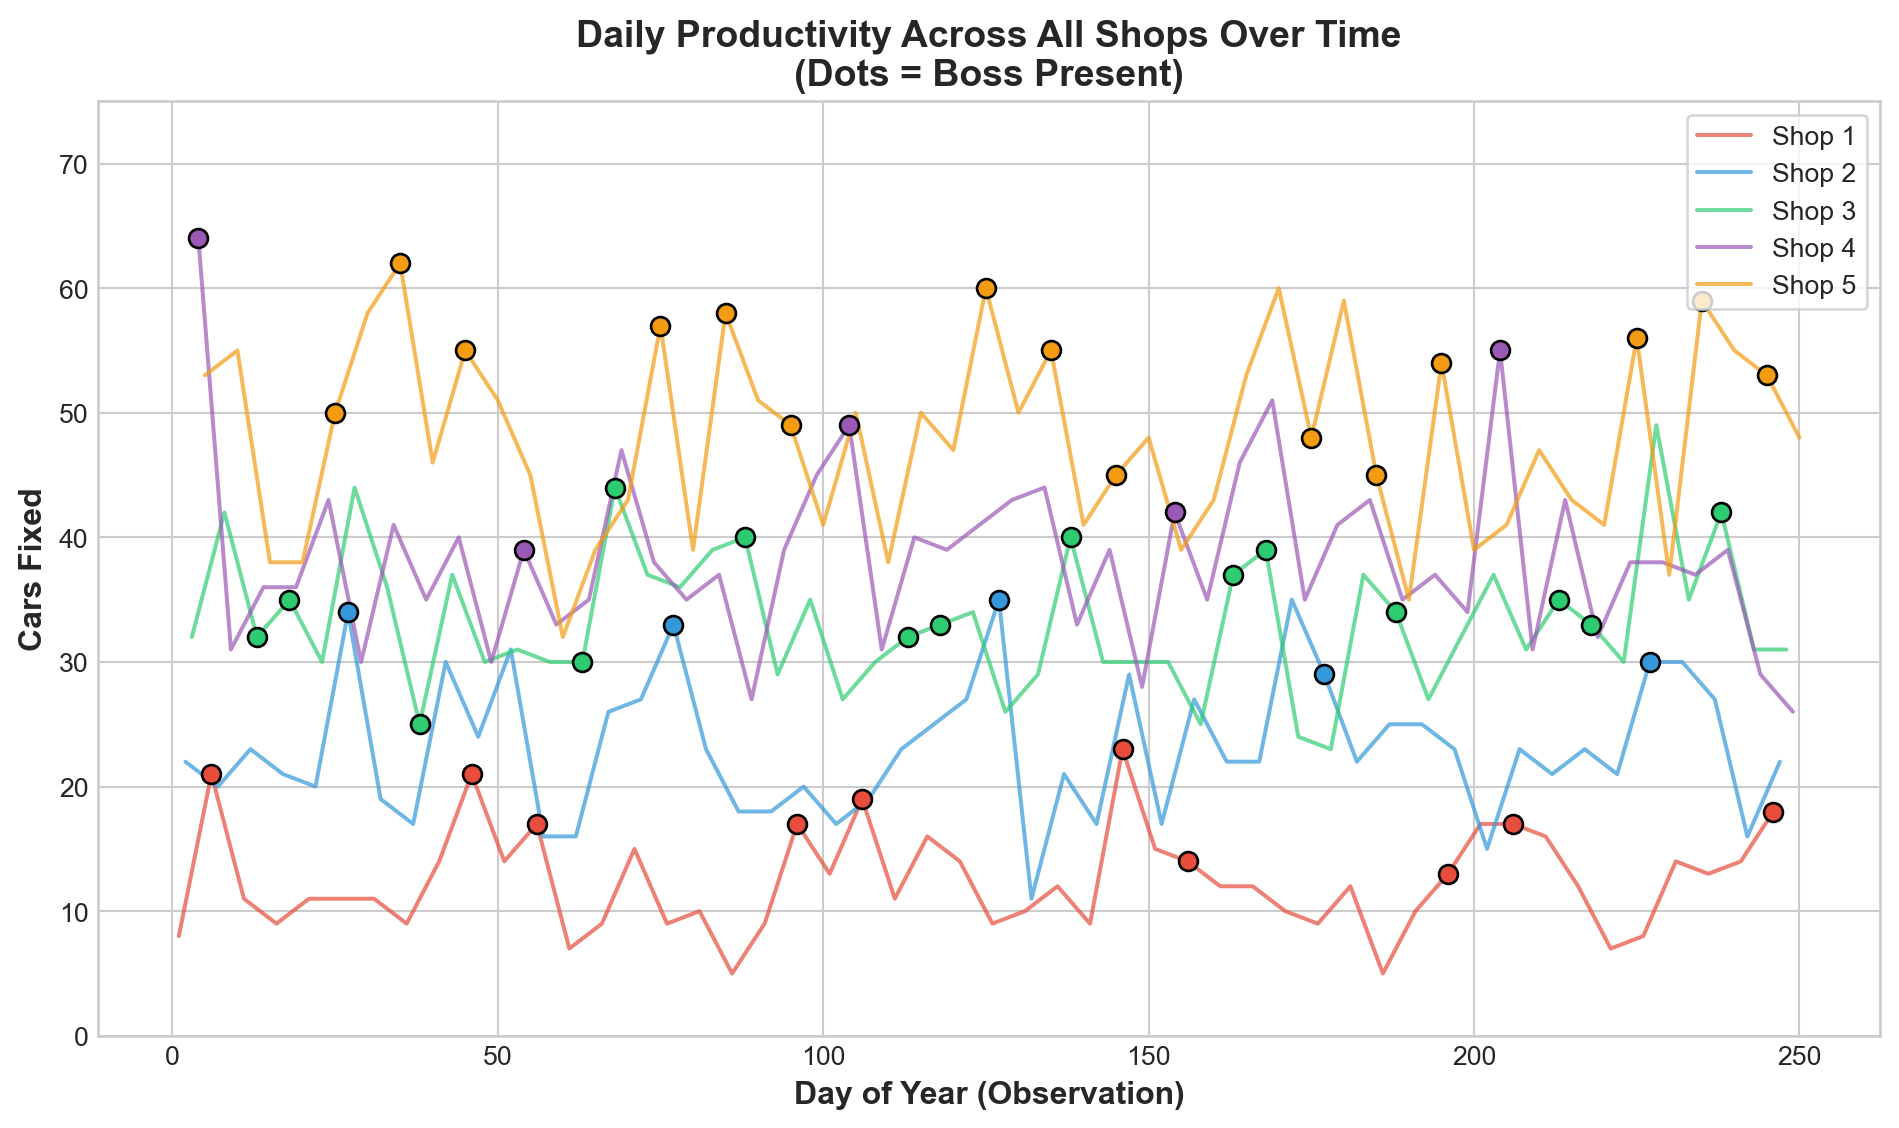
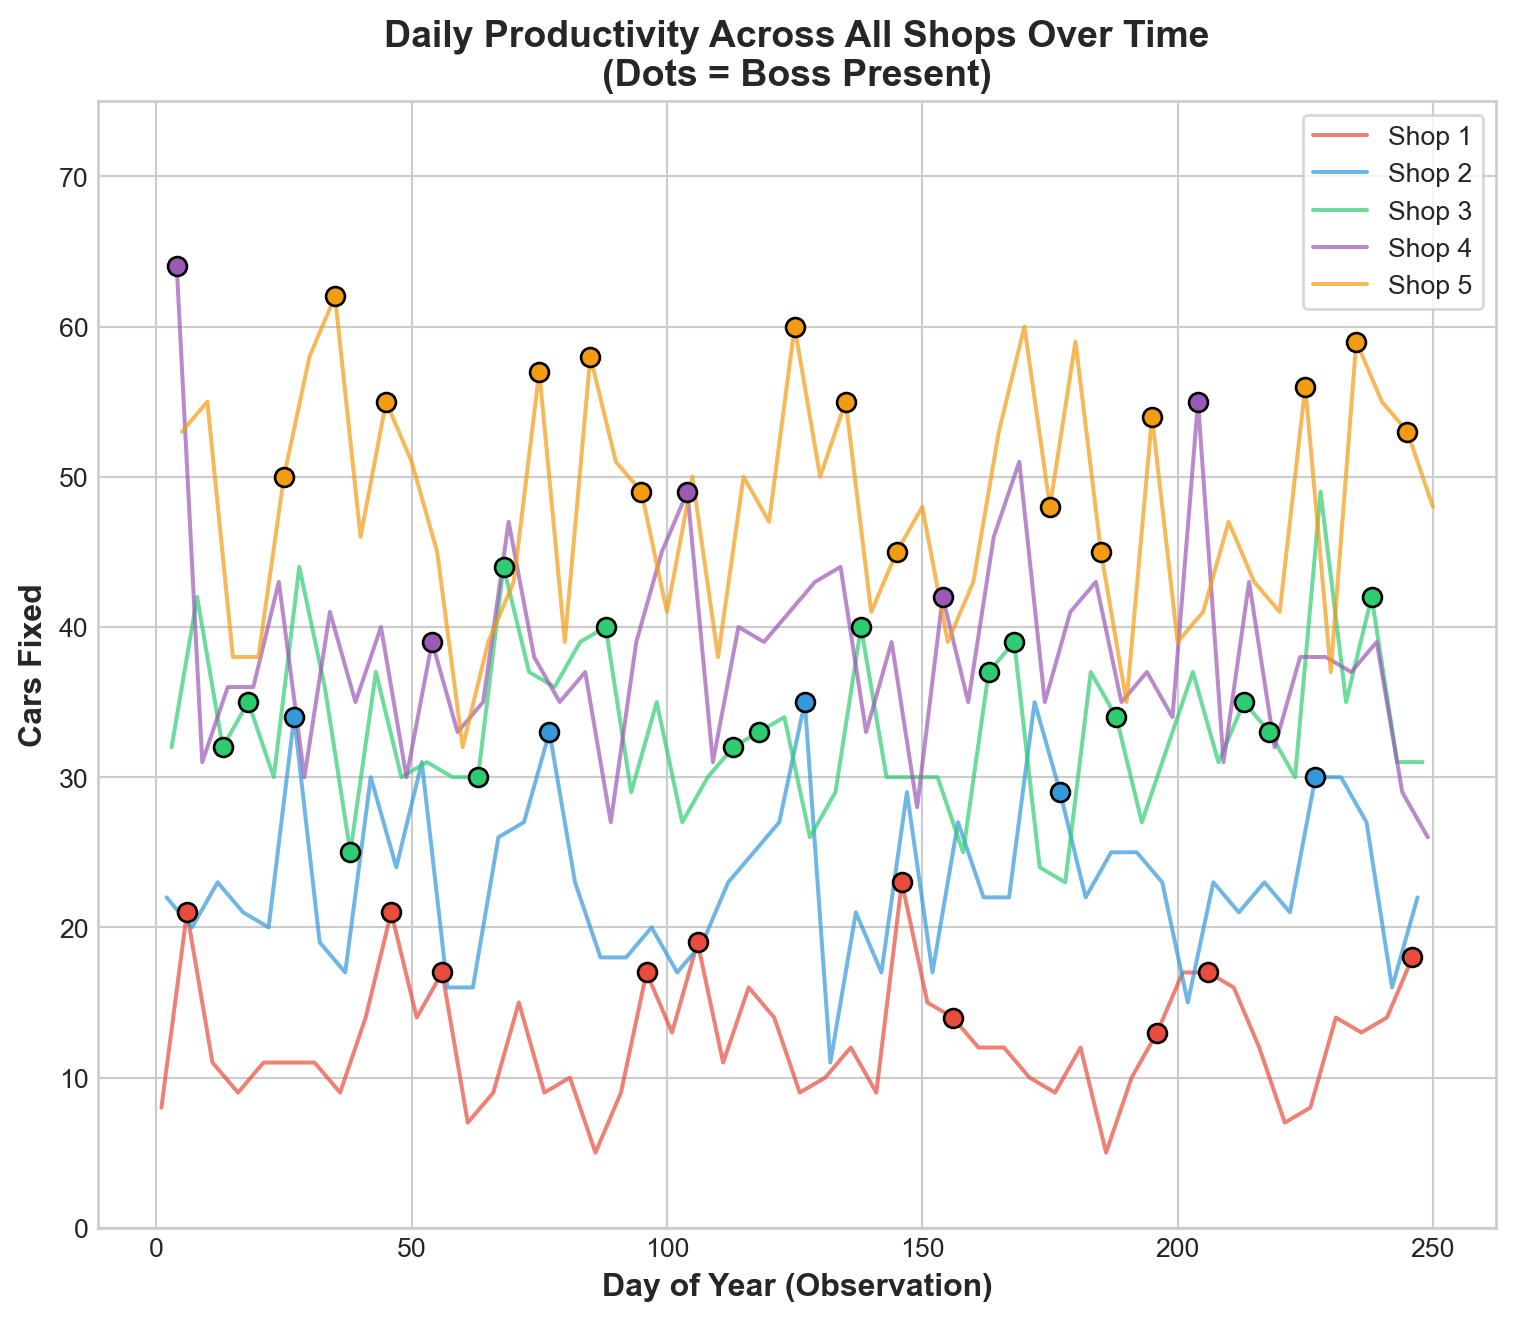
Render index.qmd

Changed region(s): [[0.0, 0.0, 0.9927, 0.9929], [0.5894, 0.2172, 0.6205, 0.2793]]

diff --git a/index.html b/index.html
@@ -103,7 +103,7 @@ ul.task-list li input[type="checkbox"] {
 <section id="what-the-data-shows" class="level2">
 <h2 class="anchored" data-anchor-id="what-the-data-shows">What the Data Shows</h2>
 <p>We analyzed 250 days of productivity data across your 5 shops. Here’s every single day plotted—you can see the pattern clearly:</p>
-<div id="92aea8ea" class="cell" data-fig-height="6" data-fig-width="8" data-execution_count="2">
+<div id="5d9c9316" class="cell" data-fig-height="6" data-fig-width="8" data-execution_count="2">
 <div class="cell-output cell-output-display">
 <div class="quarto-figure quarto-figure-center">
 <figure class="figure">
@@ -119,7 +119,7 @@ ul.task-list li input[type="checkbox"] {
 <section id="d-view-shop-performance-landscape" class="level2">
 <h2 class="anchored" data-anchor-id="d-view-shop-performance-landscape">3D View: Shop Performance Landscape</h2>
 <p>Here’s an interactive 3D perspective showing all three dimensions at once—Shop ID, your presence status, and cars fixed:</p>
-<div id="a1e65e38" class="cell" data-fig-height="8" data-fig-width="10" data-execution_count="3">
+<div id="fac2b040" class="cell" data-fig-height="8" data-fig-width="10" data-execution_count="3">
 <div class="cell-output cell-output-display">
 <div class="quarto-figure quarto-figure-center">
 <figure class="figure">
@@ -135,7 +135,7 @@ ul.task-list li input[type="checkbox"] {
 <section id="the-boss-boost-effect" class="level2">
 <h2 class="anchored" data-anchor-id="the-boss-boost-effect">The “Boss Boost” Effect</h2>
 <p>Here’s the real question: <strong>How many extra cars get fixed when you’re at each shop?</strong></p>
-<div id="ccbe6098" class="cell" data-fig-height="5" data-fig-width="9" data-execution_count="4">
+<div id="d694004a" class="cell" data-fig-height="5" data-fig-width="9" data-execution_count="4">
 <div class="cell-output cell-output-display">
 <div class="quarto-figure quarto-figure-center">
 <figure class="figure">
@@ -192,7 +192,7 @@ ul.task-list li input[type="checkbox"] {
 <section id="how-confident-can-you-be" class="level2">
 <h2 class="anchored" data-anchor-id="how-confident-can-you-be">How Confident Can You Be?</h2>
 <p><strong>The honest truth:</strong> We only have 250 days of data, and you weren’t at every shop equally. Here’s what that means:</p>
-<div id="b497cf0b" class="cell" data-fig-height="3" data-fig-width="6" data-execution_count="5">
+<div id="1bc319f7" class="cell" data-fig-height="3" data-fig-width="6" data-execution_count="5">
 <div class="cell-output cell-output-display">
 <div class="quarto-figure quarto-figure-center">
 <figure class="figure">
@@ -219,7 +219,7 @@ ul.task-list li input[type="checkbox"] {
 <section id="the-money-question" class="level2">
 <h2 class="anchored" data-anchor-id="the-money-question">The Money Question 💰</h2>
 <p>Let’s say each car fixed earns you <strong>$200 in profit</strong>. Here’s what different scheduling strategies could mean for your wallet:</p>
-<div id="aedbd4e5" class="cell" data-fig-height="7" data-fig-width="9" data-execution_count="6">
+<div id="ce6414ce" class="cell" data-fig-height="7" data-fig-width="9" data-execution_count="6">
 <div class="cell-output cell-output-display">
 <div class="quarto-figure quarto-figure-center">
 <figure class="figure">
@@ -304,11 +304,11 @@ ul.task-list li input[type="checkbox"] {
 </section>
 <section id="one-final-chart-productivity-over-the-year" class="level3">
 <h3 class="anchored" data-anchor-id="one-final-chart-productivity-over-the-year">One Final Chart: Productivity Over the Year</h3>
-<div id="4900f337" class="cell" data-fig-height="6" data-fig-width="10" data-execution_count="7">
+<div id="d76d5151" class="cell" data-fig-height="7" data-fig-width="8" data-execution_count="7">
 <div class="cell-output cell-output-display">
 <div class="quarto-figure quarto-figure-center">
 <figure class="figure">
-<p><img src="index_files/figure-html/cell-8-output-1.png" width="950" height="564" class="figure-img"></p>
+<p><img src="index_files/figure-html/cell-8-output-1.png" width="758" height="660" class="figure-img"></p>
 <figcaption>Daily productivity across all shops throughout the year</figcaption>
 </figure>
 </div>
